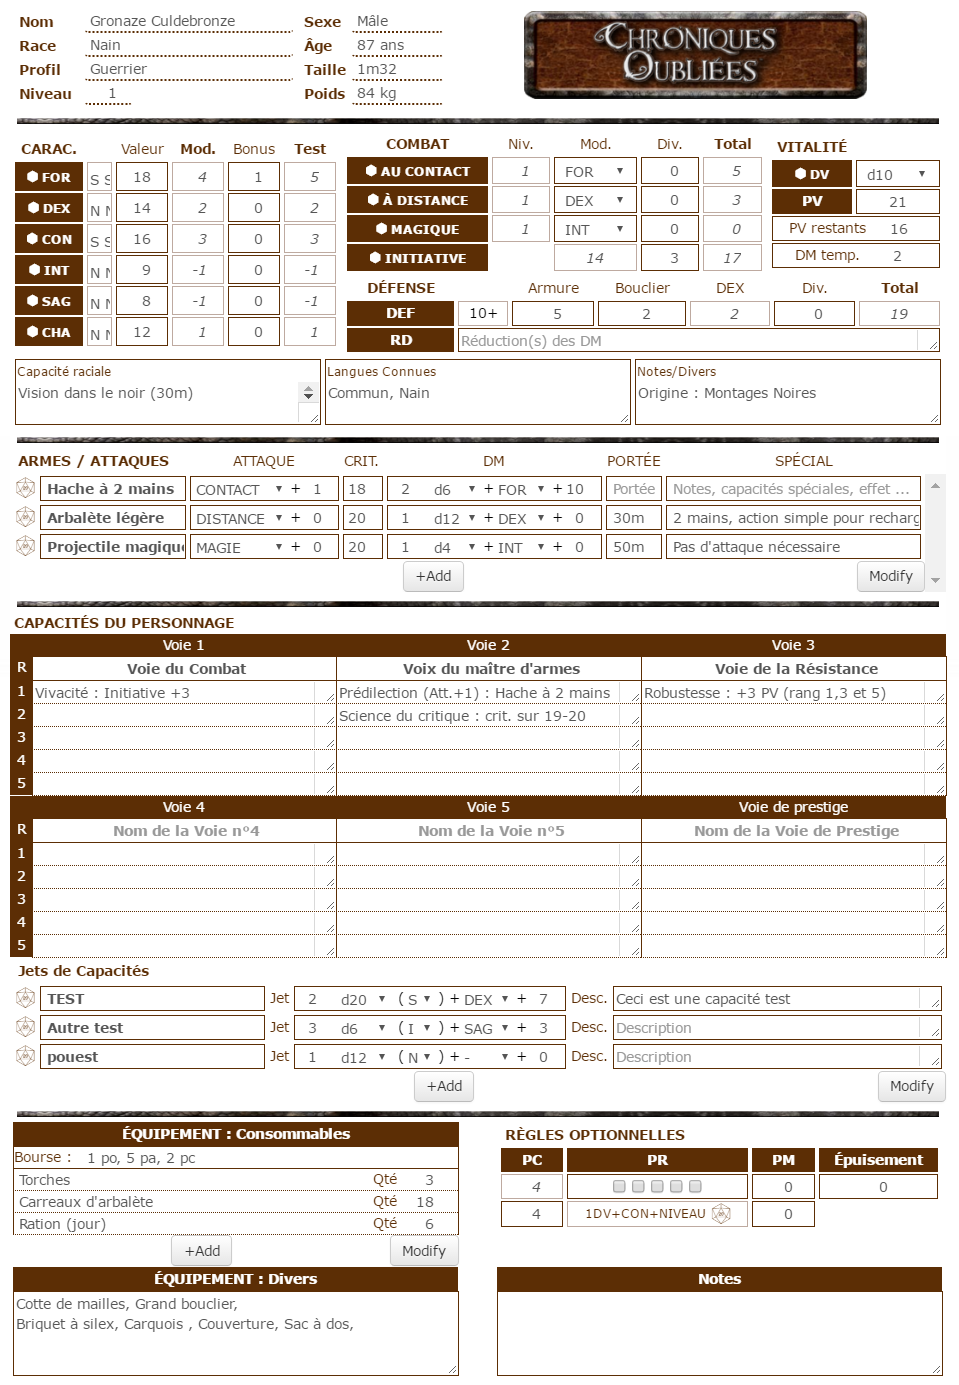
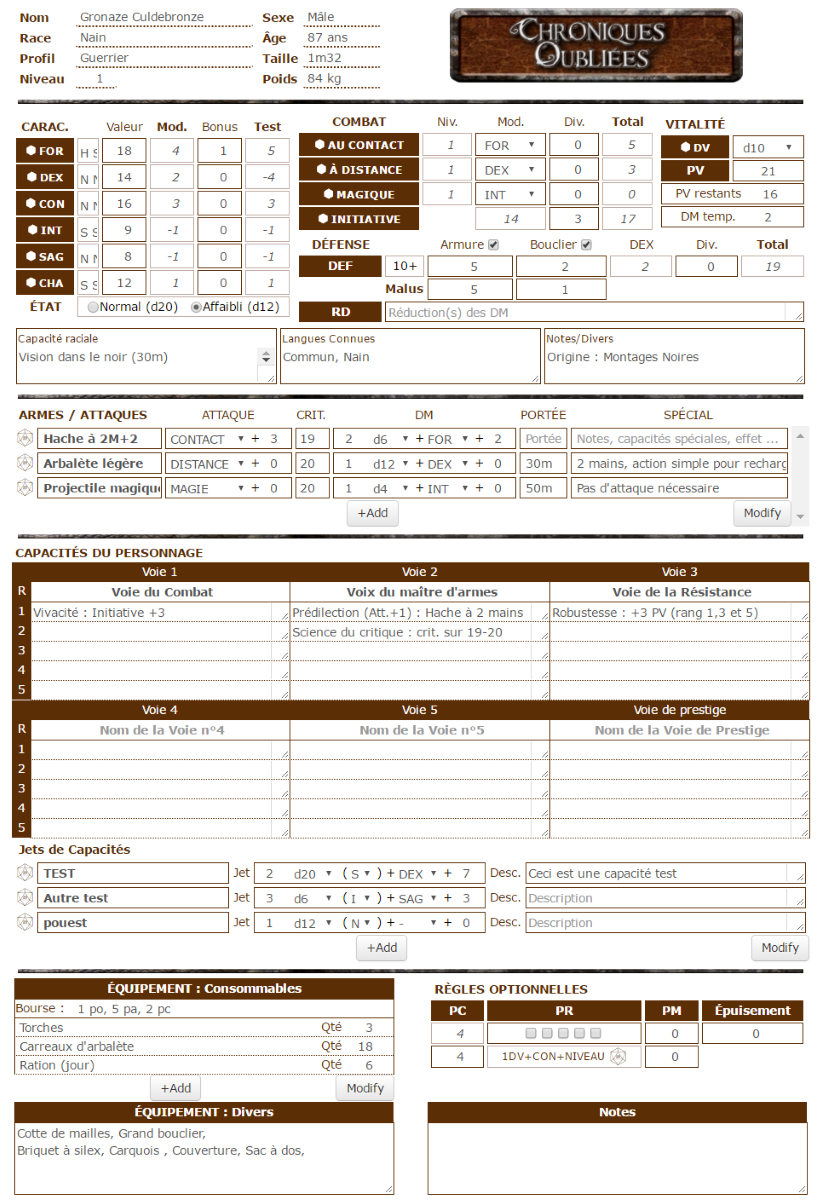
COF v1.7

diff --git a/ChroniquesOubliees/co.htm b/ChroniquesOubliees/co.htm
@@ -3,8 +3,8 @@
     on('sheet:opened',function(){
         // **** Gestion transition de version
         getAttrs(["VERSION"], function(values) {
-            var version = parseInt(values.VERSION) || 0;
-            if (version == 0) {
+            var verfdp = parseInt(values.VERSION) || 0;
+            if (verfdp == 0) {
                 // Version 1.6 vers 1.7
                 getAttrs(["FOR_SUP","DEX_SUP","CON_SUP","INT_SUP","SAG_SUP","CHA_SUP"], function(jets) {
                     var sfor, sdex, scon, sint, ssag, scha = "";
@@ -38,7 +38,7 @@
                     } else {
                         scha = "@{JETNORMAL}";
                     }
-                    setAttrs(
+                    setAttrs({
                         FOR_SUP: sfor,
                         DEX_SUP: sdex,
                         CON_SUP: scon,
@@ -46,7 +46,7 @@
                         SAG_SUP: ssag,
                         CHA_SUP: scha,
                         VERSION: "1.7"
-                    );
+                    });
                 });
             }
         });
@@ -109,7 +109,7 @@
                             </td>
                             <td class="sheet-boxinput"><input type="number" name="attr_FORCE" title="Force" value="10" min="0" max="30"/></td>
                             <td class="sheet-boxinputlight"><input type="number" name="attr_FOR" value="floor((@{FORCE}-10)/2)" disabled /></td>
-                            <td class="sheet-boxinput"><input type="number" name="attr_FOR_BONUS" title="Bonus au Test" /></td>
+                            <td class="sheet-boxinput"><input type="number" name="attr_FOR_BONUS" value="0" title="Bonus au Test" /></td>
                             <td class="sheet-boxinputlight"><input type="number" name="attr_FOR_TEST" value="@{FOR}+@{FOR_BONUS}" disabled /></td>
                         </tr>
                         <tr>
@@ -123,7 +123,7 @@
                             </td>
                             <td class="sheet-boxinput"><input type="number" name="attr_DEXTERITE" title="Dextérité" value="10" min="0" max="30" /></td>
                             <td class="sheet-boxinputlight"><input type="number" name="attr_DEX" value="floor((@{DEXTERITE}-10)/2)" disabled /></td>
-                            <td class="sheet-boxinput"><input type="number" name="attr_DEX_BONUS" title="Bonus au Test" /></td>
+                            <td class="sheet-boxinput"><input type="number" name="attr_DEX_BONUS" value="0" title="Bonus au Test" /></td>
                             <td class="sheet-boxinputlight"><input type="number" name="attr_DEX_TEST" value="@{DEX}+@{DEX_BONUS}-((@{DEFARMUREON}*@{DEFARMUREMALUS})+(@{DEFBOUCLIERON}*@{DEFBOUCLIERMALUS}))" disabled /></td>
                         </tr>
                         <tr>
@@ -137,7 +137,7 @@
                             </td>
                             <td class="sheet-boxinput"><input type="number" name="attr_CONSTITUTION" title="Constitution" value="10" min="0" max="30" /></td>
                             <td class="sheet-boxinputlight"><input type="number" name="attr_CON" value="floor((@{CONSTITUTION}-10)/2)" disabled /></td>
-                            <td class="sheet-boxinput"><input type="number" name="attr_CON_BONUS" title="Bonus au Test" /></td>
+                            <td class="sheet-boxinput"><input type="number" name="attr_CON_BONUS" value="0" title="Bonus au Test" /></td>
                             <td class="sheet-boxinputlight"><input type="number" name="attr_CON_TEST" value="@{CON}+@{CON_BONUS}" disabled /></td>
                         </tr>
                         <tr>
@@ -151,7 +151,7 @@
                             </td>
                             <td class="sheet-boxinput"><input type="number" name="attr_INTELLIGENCE" title="Intelligence" value="10" min="0" max="30" /></td>
                             <td class="sheet-boxinputlight"><input type="number" name="attr_INT" value="floor((@{INTELLIGENCE}-10)/2)" disabled /></td>
-                            <td class="sheet-boxinput"><input type="number" name="attr_INT_BONUS" title="Bonus au Test" /></td>
+                            <td class="sheet-boxinput"><input type="number" name="attr_INT_BONUS" value="0" title="Bonus au Test" /></td>
                             <td class="sheet-boxinputlight"><input type="number" name="attr_INT_TEST" value="@{INT}+@{INT_BONUS}" disabled /></td>
                         </tr>
                         <tr>
@@ -165,7 +165,7 @@
                             </td>
                             <td class="sheet-boxinput"><input type="number" name="attr_SAGESSE" title="Sagesse" value="10" min="0" max="30" /></td>
                             <td class="sheet-boxinputlight"><input type="number" name="attr_SAG" value="floor((@{SAGESSE}-10)/2)" disabled /></td>
-                            <td class="sheet-boxinput"><input type="number" name="attr_SAG_BONUS" title="Bonus au Test" /></td>
+                            <td class="sheet-boxinput"><input type="number" name="attr_SAG_BONUS" value="0" title="Bonus au Test" /></td>
                             <td class="sheet-boxinputlight"><input type="number" name="attr_SAG_TEST" value="@{SAG}+@{SAG_BONUS}" disabled /></td>
                         </tr>
                         <tr>
@@ -179,7 +179,7 @@
                             </td>
                             <td class="sheet-boxinput"><input type="number" name="attr_CHARISME" title="Charisme" value="10" min="0" max="30" /></td>
                             <td class="sheet-boxinputlight"><input type="number" name="attr_CHA" value="floor((@{CHARISME}-10)/2)" disabled /></td>
-                            <td class="sheet-boxinput"><input type="number" name="attr_CHA_BONUS" title="Bonus au Test" /></td>
+                            <td class="sheet-boxinput"><input type="number" name="attr_CHA_BONUS" value="0" title="Bonus au Test" /></td>
                             <td class="sheet-boxinputlight"><input type="number" name="attr_CHA_TEST" value="@{CHA}+@{CHA_BONUS}" disabled /></td>
                         </tr>
                         <tr>
@@ -542,7 +542,7 @@
                             <option value="8">d8</option>
                             <option value="10">d10</option>
                             <option value="12">d12</option>
-                            <option value="20" selected>d20</option>
+                            <option value="@{ETATDE}" selected>d20 (ou d12 si Affaibli)</option>
                         </select>
                         (<select class="sheet-carac" style="width:30px;" name="attr_jetcapatypjet" size="1" title="Option du jet : normal, garder le plus bas, garder le plus haut">
                             <option value="">N - Normal / additionner tous les dés</option>

diff --git a/ChroniquesOubliees/ReadMe.md b/ChroniquesOubliees/ReadMe.md
@@ -9,9 +9,19 @@ Cette feuilles de personnage inclue quelques jets et r&egrave;gles optionnelles.
 Le jeu complet, des suppl&eacute;ments et des t&eacute;l&eacute;chargements gratuits sont disponibles sur le site de l&apos;&eacute;diteur [Black Book Editions](http://www.black-book-editions.fr/catalogue.php?id=13).
 
 # Version courante
-1.6 [Screenshot](co_v2.png)
+1.7 [Screenshot](co_v2.png)
 
 # Notes de version
+
+##v1.7 (2016-11-27)
+
+* Ajout de l'état Normal ou Affaibli : les D20 des Tests deviennent des D12 à l'état Affaibli (y compris pour les Attaques et les Jets de Capacités)
+* Ajout de zones de saisie des Malus d'Armure et Bouclier aux Tests de DEX
+* Ajout d'une case à cocher pour l'Armure et le Bouclier : si cochée, la DEF tient compte de l'Armure ou du Bouclier, et le Malus de d'Armure correspondant s'applique aux Tests de DEX
+* Modification des options de Tests  de Caractéristiques :
+  * N-Normale : les Tests se font avec 1D20
+  * S-Supérieure OU Héroïque : les Tests se font avec 2D20 dont on garde le meilleur
+  * H-Supérieure ET Héroîque : les Tests se font avec 2D20 dont on garde le meilleur, et s'il est inférieur à 10, le jet "prend 10".
 
 ##v1.6 (2016-11-01)
 
@@ -20,7 +30,6 @@ Le jeu complet, des suppl&eacute;ments et des t&eacute;l&eacute;chargements grat
 * Ajout d'une sélection de mode de jet pour les jets de capacités : Normal, garder le plus haut score, garder le score le plus faible (permet de gérer les jets avec caractéristiques supérieures par exemple)
 * Ajout du nom du personnage sur le template de chat de tous les jets
 * Ajout d'une zone de notes/divers
-
 
 ##v1.5 (2016-07-13)
 
